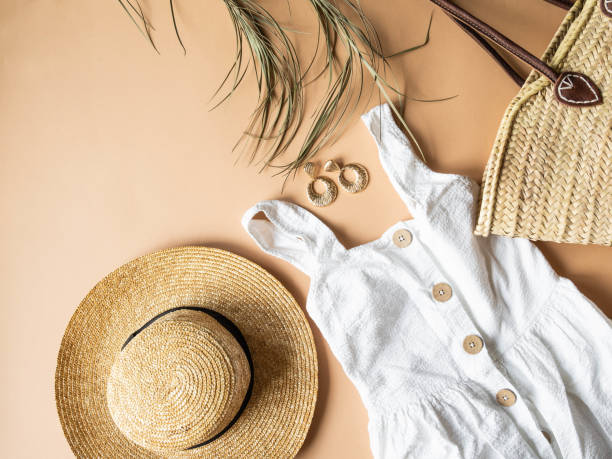
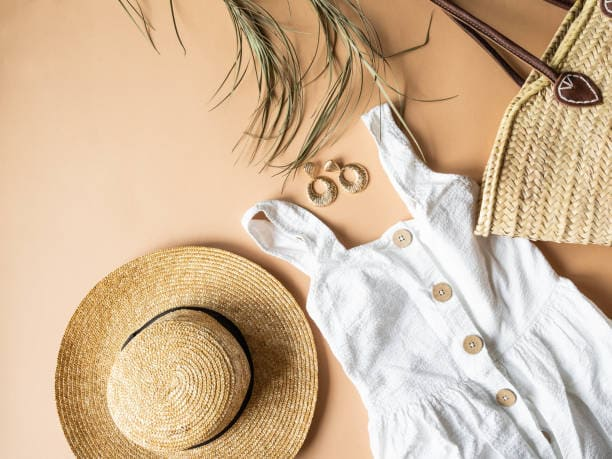
Compressed pictures and added trip packer section

diff --git a/src/pages/MainPage.js b/src/pages/MainPage.js
@@ -9,6 +9,7 @@ import womanCasual from "../assets/images/woman-casual.jpg";
 import manBusiness from "../assets/images/man-business.jpg";
 import jackets from "../assets/images/jackets.jpg";
 import shelves from "../assets/images/shelves.jpg";
+import tripPacker from "../assets/images/trip-packer.png";
 import { useEffect, useState } from "react";
 import { updateUser } from "../utils/AuthManipulations";
 import { Link, NavLink } from "react-router-dom";
@@ -136,6 +137,21 @@ function Page({ user }) {
 			</section>
 
 			<section className="sixth-page main-section">
+				<div className="trip-packer">
+					<h1>Prepare for a trip with Closet Assistant</h1>
+					<h2>Choose trip dates and get a collection of clothes that you can take</h2>
+				</div>
+				<div className="image-container trip-packer-photo">
+					<LazyLoadImage
+						alt="trip packer"
+						effect="blur"
+						className="trip-packer"
+						src={tripPacker}
+					/>
+				</div>
+			</section>
+
+			<section className="seventh-page main-section">
 				<div className="start-using">
 					<h1>Closet assistant</h1>
 					<h2>Start expressing yourself with comfort NOW</h2>
